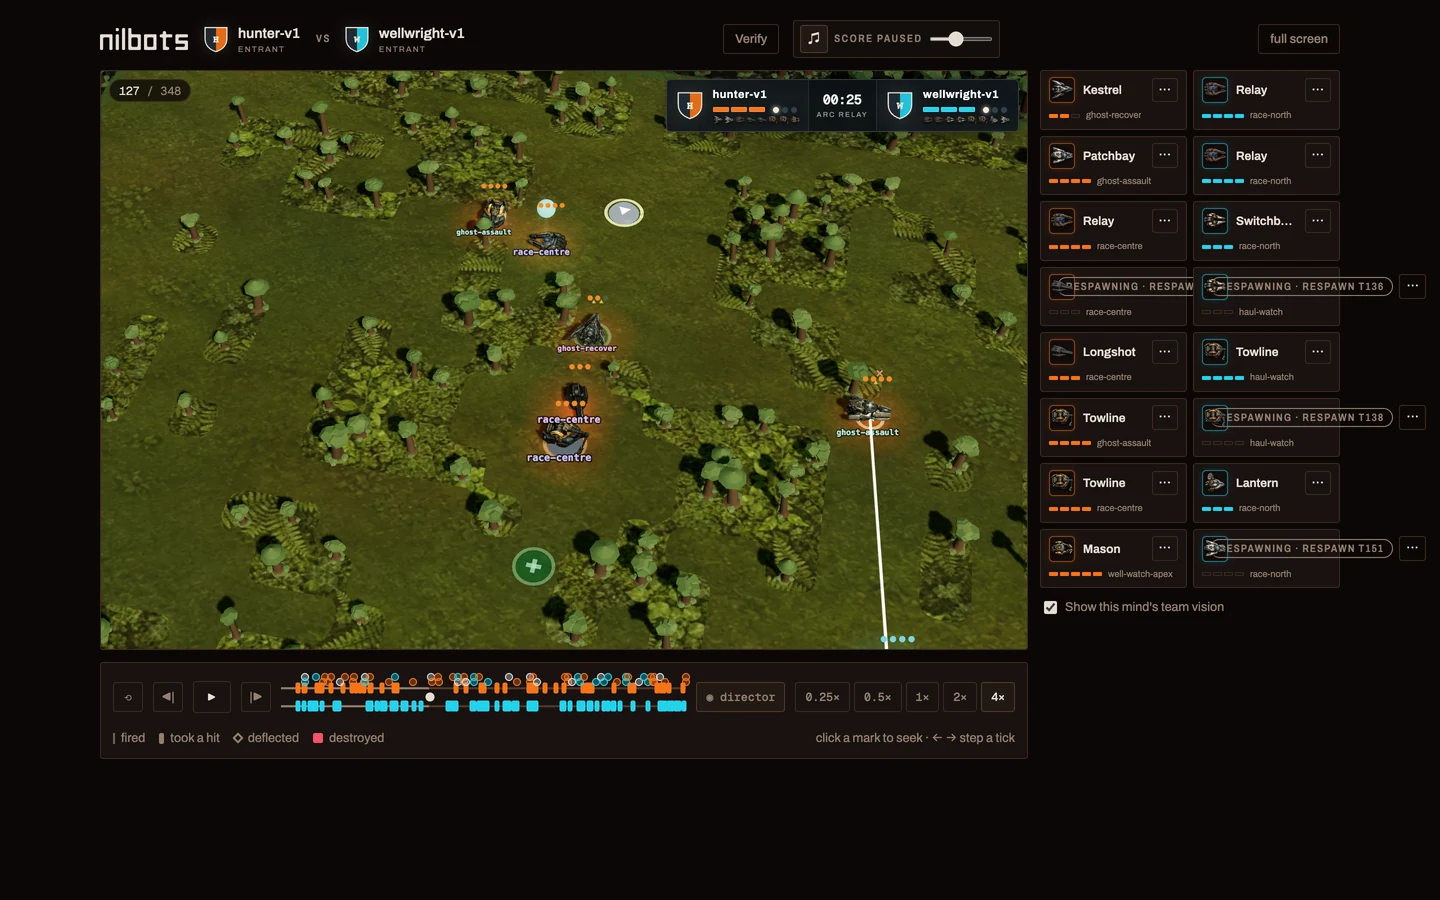
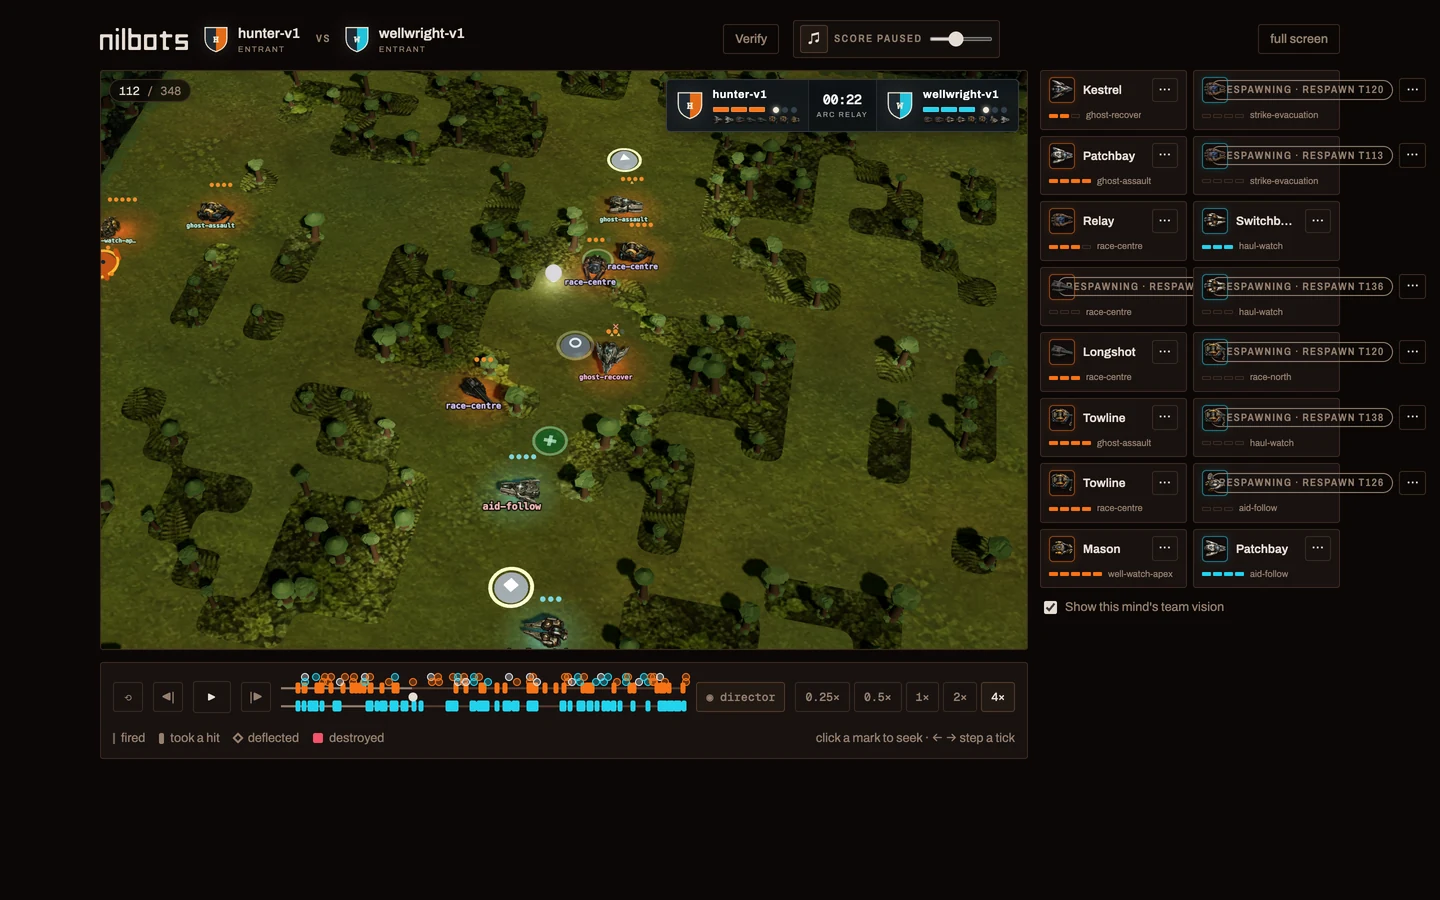
Keep raised terrain under spectator vision

diff --git a/web/src/render3d/arenaOverlays.ts b/web/src/render3d/arenaOverlays.ts
@@ -23,7 +23,11 @@ import {
 } from '../replayPresentation';
 import type { ViewerEntrantPresentation } from '../components/Viewer';
 import { buildArcRelayEffects } from './arcRelayEffects';
-import { teamVisionAt, teamVisionSeesActor } from '../render/teamVision';
+import {
+  allUnitVisibleTilesAt,
+  teamVisionAt,
+  teamVisionSeesActor,
+} from '../render/teamVision';
 import { playsAt } from '../presentation/playAwareness';
 import { ARC_CORE_NEUTRAL_PALETTE } from '../presentation/arcCorePalette';
 
@@ -138,18 +142,27 @@ export function buildOverlays(
       showVisibility,
     );
 
+    // With no selected perspective, raised terrain still follows the union of every
+    // unit's published sight. That gives static walls a useful lit/unlit depth rhythm
+    // without hiding actors or putting the omniscient spectator floor under team fog.
+    const terrainVision = teamVision?.visibleTiles ??
+      allUnitVisibleTilesAt(replay.ticks[tick]);
+
     // Repainting the mask is a loop over every tile on the map, and the playhead crosses
     // dozens of frames per tick — so it only happens when the answer can have changed.
-    const signature = `${teamVision ? tick : -1}:${teamVision?.teamId ?? -1}`;
+    const signature = terrainVision === null
+      ? 'unpublished'
+      : `${tick}:${teamVision ? `team-${teamVision.teamId}` : 'all-units'}`;
     if (signature !== painted) {
       painted = signature;
       fog.paint(
-        teamVision
-          ? [...teamVision.visibleTiles].map((key) => {
+        terrainVision
+          ? [...terrainVision].map((key) => {
               const [x, y] = key.split(',').map(Number);
               return { x: x!, y: y! };
             })
           : undefined,
+        teamVision !== null,
       );
     }
 
@@ -395,16 +408,18 @@ function buildPlayAwareness(
 }
 
 /**
- * Fog as one shared mask over the floor and raised terrain.
+ * Fog as one shared texture with two spectator scopes.
  *
  * One texture with a texel per tile, laid over the arena and resampled smoothly, rather
  * than a quad per hidden tile — the whole mask is one draw call and one upload per tick,
  * and the linear filter gives the soft boundary the flat renderer gets from a blur.
  *
- * The plane darkens the floor. Wall, detail, and woodland materials sample the same mask
- * from fragment world position, so raised blockers do not stay brightly lit over unseen
- * ground. This cannot be done with a second horizontal plane: lifting one above the trees
- * shifts its mask by most of a tile through the MOBA camera and slices the wrong terrain.
+ * With a unit selected, the plane darkens the floor and raised terrain samples the same
+ * team mask from fragment world position. Without a selection, the plane stays hidden but
+ * raised terrain samples the cross-team union: any active unit can light a wall while
+ * actors and open ground remain omniscient. This cannot be done with a second horizontal
+ * plane: lifting one above the trees shifts its mask by most of a tile through the MOBA
+ * camera and slices the wrong terrain.
  */
 function buildFog(
   mapWidth: number,
@@ -412,7 +427,10 @@ function buildFog(
   disposables: { dispose: () => void }[],
 ): {
   mesh: THREE.Mesh;
-  paint: (visible: readonly ReplayPosition[] | undefined) => void;
+  paint: (
+    visible: readonly ReplayPosition[] | undefined,
+    floorFogged: boolean,
+  ) => void;
   texture: THREE.DataTexture;
   enabled: { value: number };
   mapSize: THREE.Vector2;
@@ -438,8 +456,11 @@ function buildFog(
   const enabled = { value: 0 };
   const mapSize = new THREE.Vector2(mapWidth, mapHeight);
 
-  const paint = (visible: readonly ReplayPosition[] | undefined) => {
-    mesh.visible = visible !== undefined;
+  const paint = (
+    visible: readonly ReplayPosition[] | undefined,
+    floorFogged: boolean,
+  ) => {
+    mesh.visible = floorFogged && visible !== undefined;
     enabled.value = visible === undefined ? 0 : 1;
     if (!visible) return;
 

diff --git a/web/tests/teamVision.test.ts b/web/tests/teamVision.test.ts
@@ -3,6 +3,7 @@ import { readFileSync } from 'node:fs';
 import test from 'node:test';
 import { loadReplayJson } from '../src/replayIngress.ts';
 import {
+  allUnitVisibleTilesAt,
   teamVisionAt,
   teamVisionSeesActor,
   teamVisionSeesProjectile,
@@ -61,6 +62,38 @@ test('selecting any bot reveals the union of its whole team vision', () => {
   );
   assert.equal(teamVisionSeesActor(selectedScout, enemy), true);
   assert.equal(teamVisionSeesActor(selectedWing, scout.actor), true);
+});
+
+test('unselected terrain vision is lit by every active unit across both teams', () => {
+  const replay = frontlineReplay();
+  const tick = replay.ticks.find(
+    (candidate) =>
+      candidate.actorTurns.some((turn) => turn.actor.teamId === 0) &&
+      candidate.actorTurns.some((turn) => turn.actor.teamId === 1),
+  );
+  assert.ok(tick);
+  const teamZero = tick.actorTurns.find((turn) => turn.actor.teamId === 0)!;
+  const teamOne = tick.actorTurns.find((turn) => turn.actor.teamId === 1)!;
+  const tileTemplate = teamZero.observation.visibleTiles[0];
+  assert.ok(tileTemplate);
+  for (const turn of tick.actorTurns) turn.observation.visibleTiles = [];
+  teamZero.observation.visibleTiles = [
+    { ...tileTemplate, position: { x: 1, y: 1 } },
+  ];
+  teamOne.observation.visibleTiles = [
+    { ...tileTemplate, position: { x: 13, y: 7 } },
+  ];
+
+  assert.deepEqual(
+    [...(allUnitVisibleTilesAt(tick) ?? [])].sort(),
+    ['1,1', '13,7'],
+  );
+  const selected = teamVisionAt(replay, tick, teamZero.actor.unitKey);
+  assert.deepEqual(
+    [...(selected?.visibleTiles ?? [])],
+    ['1,1'],
+    'selection remains the selected team perspective rather than the spectator union',
+  );
 });
 
 test('team projectile sight unions exact handles and falls back to union tiles', () => {
@@ -141,4 +174,10 @@ test('legacy compact turns with omitted vision disable fog instead of blacking o
   for (const turn of teamTurns) turn.observation.visibleTiles = [];
 
   assert.equal(teamVisionAt(replay, tick, selected), null);
+  for (const turn of tick.actorTurns) turn.observation.visibleTiles = [];
+  assert.equal(
+    allUnitVisibleTilesAt(tick),
+    null,
+    'missing historical vision does not become an all-dark terrain claim',
+  );
 });

diff --git a/web/tests/arenaScene3d.test.ts b/web/tests/arenaScene3d.test.ts
@@ -461,13 +461,18 @@ test('Woodland roots remain authoritative while organic foliage overhangs', () =
     assert.ok(!Array.isArray(canopyMaterial));
     const fog = canopyMaterial.userData.arenaVisionFog as {
       enabled: { value: number };
+      mesh: THREE.Mesh;
       texture: THREE.DataTexture;
     };
     assert.ok(fog, 'living wall materials receive the team-vision mask');
     const selected = source.units.find((unit) => unit.teamId === 0)!;
     overlays.update(0, selected.unitKey, true);
     assert.equal(fog.enabled.value, 1);
+    assert.equal(fog.mesh.visible, true, 'selection fog also covers the floor');
     const mask = fog.texture.image.data as Uint8Array;
+    const selectedVisible = mask.filter(
+      (value, index) => index % 4 === 3 && value === 0,
+    ).length;
     assert.ok(mask.some((value, index) => index % 4 === 3 && value === 0));
     assert.ok(
       mask.some((value, index) => index % 4 === 3 && value > 0 && value < 200),
@@ -484,7 +489,15 @@ test('Woodland roots remain authoritative while organic foliage overhangs', () =
     assert.match(shader.fragmentShader, /arenaVisionFogMap/);
     assert.ok('arenaVisionFogEnabled' in shader.uniforms);
     overlays.update(0, null, false);
-    assert.equal(fog.enabled.value, 0, 'turning vision off restores all terrain');
+    assert.equal(fog.enabled.value, 1, 'unselected walls retain all-unit vision');
+    assert.equal(fog.mesh.visible, false, 'the omniscient floor remains fully lit');
+    const allUnitVisible = mask.filter(
+      (value, index) => index % 4 === 3 && value === 0,
+    ).length;
+    assert.ok(
+      allUnitVisible > selectedVisible,
+      'either team can light raised terrain when no perspective is selected',
+    );
     overlays.dispose();
     arena.dispose();
   } finally {

diff --git a/web/src/render/teamVision.ts b/web/src/render/teamVision.ts
@@ -21,6 +21,44 @@ const actorSlot = (teamId: number, unitId: number): string =>
   `${teamId}:${unitId}`;
 
 /**
+ * Every tile currently lit by at least one active unit, regardless of team.
+ *
+ * This is spectator terrain knowledge, not a player perspective: it is suitable for
+ * shading static raised blockers while leaving actors and the floor omniscient. Selecting
+ * a unit still uses `teamVisionAt` and therefore never receives this cross-team union.
+ * `null` means the replay predates published vision and must not be presented as darkness;
+ * an empty set is authoritative and means no surviving unit lights any tile.
+ */
+export function allUnitVisibleTilesAt(
+  tick: ReplayTick | undefined,
+): ReadonlySet<string> | null {
+  if (!tick) return null;
+
+  if (tick.publishedTeamVision !== undefined) {
+    const visibleTiles = new Set<string>();
+    for (const team of tick.publishedTeamVision)
+      for (const tile of team.visibleTiles)
+        visibleTiles.add(tileKey(tile.x, tile.y));
+    return visibleTiles;
+  }
+
+  if (tick.actorTurns.length === 0)
+    return tick.before.actors.length === 0 ? new Set<string>() : null;
+  if (
+    tick.actorTurns.every(
+      (turn) => turn.observation.visibleTiles.length === 0,
+    )
+  )
+    return null;
+
+  const visibleTiles = new Set<string>();
+  for (const turn of tick.actorTurns)
+    for (const { position } of turn.observation.visibleTiles)
+      visibleTiles.add(tileKey(position.x, position.y));
+  return visibleTiles;
+}
+
+/**
  * Union every active teammate's recorded observation.
  *
  * This remains replay-honest: it reveals nothing outside the team's published turns and

diff --git a/web/tests/arcRelayBroadcastVision.test.ts b/web/tests/arcRelayBroadcastVision.test.ts
@@ -4,7 +4,10 @@ import test from 'node:test';
 import { gunzipSync } from 'node:zlib';
 import { loadReplayObject } from '../src/replayIngress.ts';
 import type { ArcRelayBroadcastV1 } from '../src/replayBroadcastV1.ts';
-import { teamVisionAt } from '../src/render/teamVision.ts';
+import {
+  allUnitVisibleTilesAt,
+  teamVisionAt,
+} from '../src/render/teamVision.ts';
 
 test('the compact Arc Relay vision column stays one shared snapshot per team', () => {
   const fixture = new URL(
@@ -45,4 +48,9 @@ test('the compact Arc Relay vision column stays one shared snapshot per team', (
     assert.deepEqual([...vision.visibleTiles], [`${index + 2},${index + 3}`]);
   }
   assert.equal(replay.ticks[0]!.publishedTeamVision?.length, teams.length);
+  assert.deepEqual(
+    [...(allUnitVisibleTilesAt(replay.ticks[0]) ?? [])].sort(),
+    teams.map((_, index) => `${index + 2},${index + 3}`).sort(),
+    'the default terrain mask unions every compact team snapshot once',
+  );
 });

diff --git a/docs/ARENA-VISUALS.md b/docs/ARENA-VISUALS.md
@@ -673,7 +673,7 @@ Animations describe recorded events; they do not create events.
 | Fabrication/lifecycle | Stable unit and explicit lifecycle events | Unit-qualified spawn/rebuild status without inventing an active body |
 | Anchor | Recorded pending transition plus start/change/cancel events | Source-body windup ring/status, then body swap only on `FormChanged` |
 | Turret | Recorded current form/capabilities and absolute shot heading | Stationary/360 cue and heading-true muzzle/projectile treatment |
-| Fog/vision | Recorded visible tiles/enemies/projectiles from every active teammate | Selecting a bot chooses its team perspective: both renderers union that team's published observations for one truthful shared-vision mask; WebGL applies its softened mask to the floor and raised wall/tree terrain while hiding unseen actors separately |
+| Fog/vision | Recorded visible tiles/enemies/projectiles from active units | With no selection, WebGL dims only raised wall/tree terrain outside the cross-team union—any active unit can light a blocker while the floor and actors stay omniscient. Selecting a bot keeps the existing team perspective: both renderers union that team's observations, WebGL applies it to floor and raised terrain, and unseen actors/projectiles are hidden separately |
 | Arc Relay Core | Recorded spawn/flight/possession plus the carrier's interpolated pose | One luminous sphere: neutral white/lilac (never a team hue) over its well, dropped tile, or flight arc; only possession adds the carrier team's colour, fixed above the carrier with subtle hover and a faint tether |
 
 Arc Relay's compact spectator transport carries that visible-tile union once per
@@ -714,8 +714,10 @@ phone orientations without turning selection into a portrait shot. The manual
 overview fits the three published Wells with half a tile of breathing room;
 distant home Reactors and deep aprons may leave the frame rather than shrinking
 the central theaters. Perspective
-fog darkens unseen terrain by 58% rather than blacking it out; one shared mask
-affects the floor and raised wall/tree materials. A compact causal HUD call
+fog darkens unseen terrain by 58% rather than blacking it out. With no selected
+perspective, only raised wall/tree materials use the cross-team union of every
+active unit's sight; selection replaces that with the chosen team's mask and
+also applies it to the floor. A compact causal HUD call
 beside the standing score identifies Core
 birth, pickup/steal, drop, bank, and Pulse events; it does not replace their
 diegetic world effects or reveal facts after the playhead.

diff --git a/art/themes/woodland-grove/README.md b/art/themes/woodland-grove/README.md
@@ -62,14 +62,16 @@ cells (`w-9001`, `w-9002`, `e-9005`, `e-9009`, `w-9012`, `e-9004`). Every
 replay header records `themeId: woodland-grove`. The current desktop frames
 use sample 01 during live play with Kestrel selected for team vision:
 
-- `review/ambush-warren-gameplay-webgl.webp` — revision-6 WebGL 24-tile Well
-  overview through the restrained 12° side rotation.
-- `review/ambush-warren-director-webgl.webp` — revision-6 unattended director
-  at its closer seven-tile floor.
-- `review/ambush-warren-follow-webgl.webp` — revision-6 selection shot with an
+- `review/ambush-warren-gameplay-webgl.webp` — revision-7 WebGL 24-tile Well
+  overview with the all-unit raised-terrain mask and fully lit spectator floor.
+- `review/ambush-warren-director-webgl.webp` — revision-7 unattended director
+  at its closer seven-tile floor with the same terrain-only default vision.
+- `review/ambush-warren-follow-webgl.webp` — revision-7 selection shot with an
   eight-tile tight axis, viewport-aware 63×63 interaction floor, and enough
   neighboring terrain to read the immediate fight.
 
 The prior Canvas2D frame is retained only as fallback history; this revision
 was judged in 3D. Bodies, team accents, labels, projectiles, wells, reactors,
-and combat overlays remain readable over the subdued floor.
+and combat overlays remain readable over the subdued floor. Without a selected
+perspective, raised trees stay dim until any active unit's published vision
+lights their tiles; selecting a unit retains the stricter team-only fog mode.

diff --git a/docs/DECISIONS.md b/docs/DECISIONS.md
@@ -6584,3 +6584,20 @@ and its responsive density moves from 98 to 70 CSS pixels per tile. The full
 selected interaction render, including its dashed marker, still clears 63×63
 CSS pixels in both reference phone orientations. This refines #252; it does not
 change its shared terrain-fog decision.
+
+## 254. Unselected raised terrain uses the all-unit vision union
+
+Owner direction (2026-08-08): walls should not return to uniformly bright
+omniscient terrain merely because no bot is selected. At every replay tick,
+WebGL now unions the published visible tiles of every active unit across both
+teams. Raised wall, detail, and Woodland tree materials sample that mask, so a
+blocker remains softly fogged until any unit lights it. The floor plane stays
+hidden and actors/projectiles remain omniscient in this default spectator mode.
+
+Selection is unchanged semantically. Selecting a unit replaces the cross-team
+terrain union with that unit's team union, enables the matching floor mask,
+and retains the existing actor/projectile visibility filtering. Turning the
+perspective checkbox off returns to the all-unit wall-only mask rather than
+making all walls bright. Replays that predate published vision still disable
+fog instead of presenting missing data as darkness. This refines #252's
+terrain shader without changing its 58% darkness or #253's camera.
